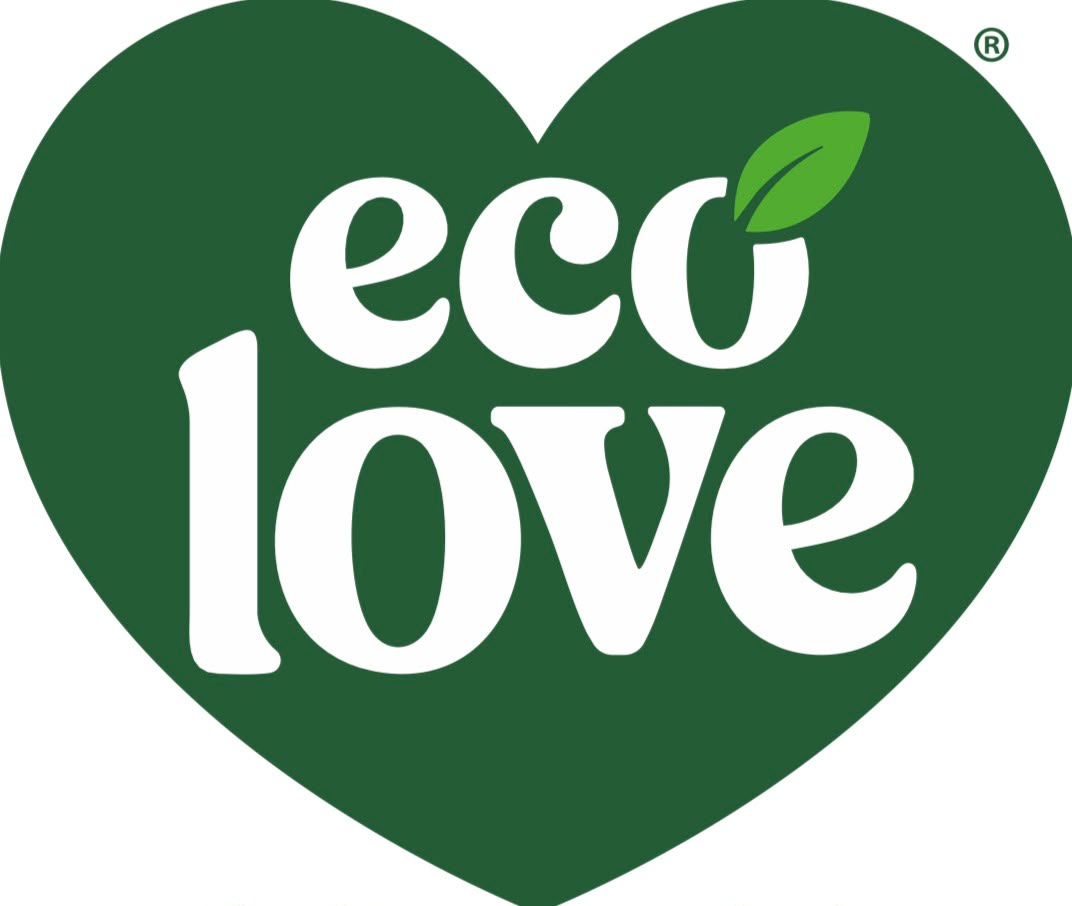
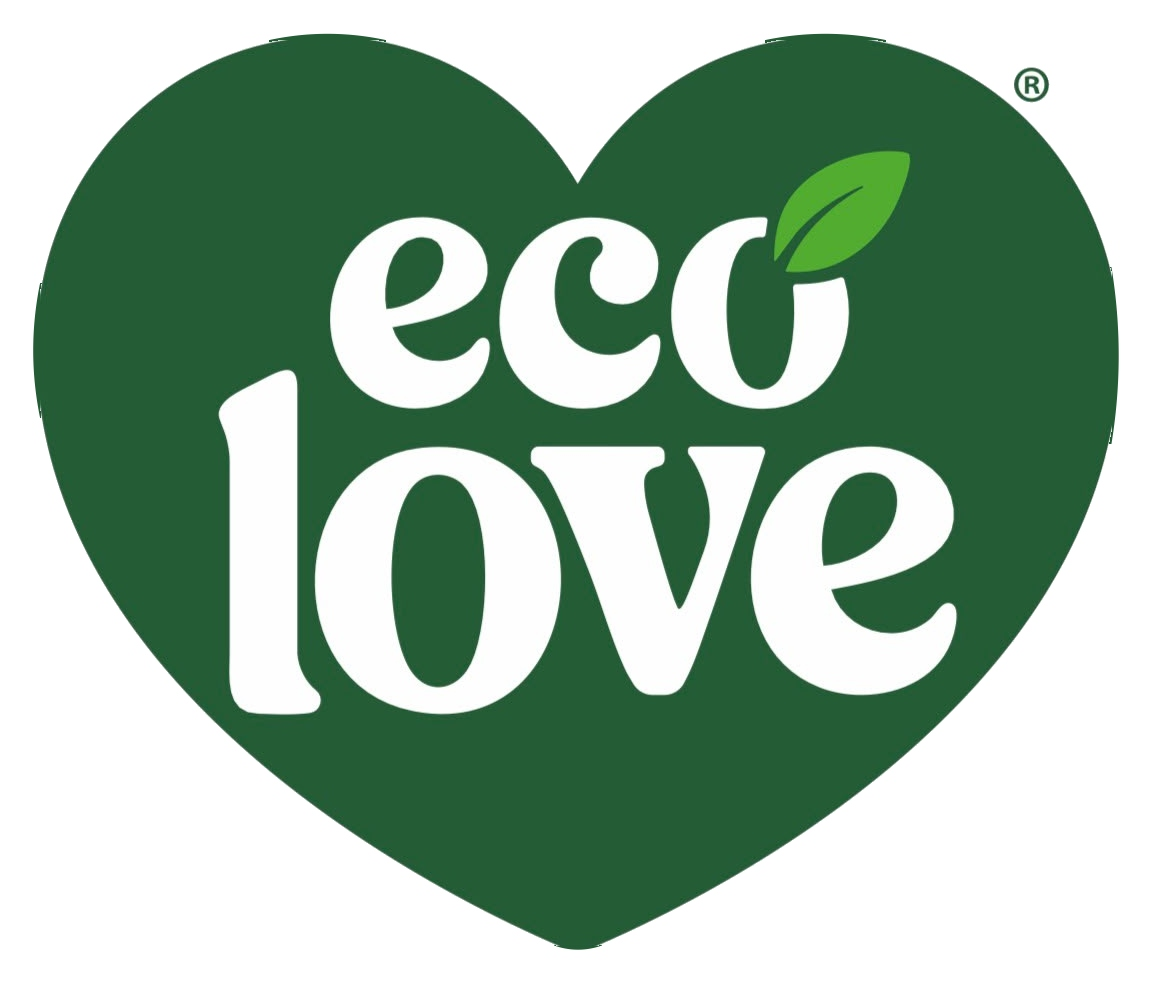
style(brands): update brand assets and UI layout
- Replace brand logos with updated versions
- Adjust scale and padding for brand cards in BrandSubpage and BrandsSection for improved consistency

diff --git a/src/components/BrandSubpage.tsx b/src/components/BrandSubpage.tsx
@@ -269,21 +269,21 @@ export const BrandSubpage: React.FC<BrandSubpageProps> = ({
         );
       case 'dhoy':
         return (
-          <div className="w-13 h-13 sm:w-16 sm:h-16 bg-white rounded-full flex items-center justify-center p-1.5 shadow-md shrink-0 overflow-hidden">
+          <div className="w-13 h-13 sm:w-16 sm:h-16 bg-white rounded-full flex items-center justify-center p-2 sm:p-2.5 shadow-md shrink-0 overflow-hidden">
             <img
               src={dhoyImg}
               alt="D'Hoy"
-              className="w-[88%] h-auto max-h-full object-contain"
+              className="w-[82%] sm:w-[84%] h-auto max-h-[82%] object-contain"
             />
           </div>
         );
       case 'ecolove':
         return (
-          <div className="w-13 h-13 sm:w-16 sm:h-16 bg-white rounded-full flex items-center justify-center p-1.5 shadow-md shrink-0 overflow-hidden">
+          <div className="w-13 h-13 sm:w-16 sm:h-16 bg-white rounded-full flex items-center justify-center p-2 sm:p-2.5 shadow-md shrink-0 overflow-hidden">
             <img
               src={ecoloveTransparentImg}
               alt="EcoLove"
-              className="w-[82%] h-auto max-h-full object-contain drop-shadow-xs"
+              className="w-[80%] sm:w-[82%] h-auto max-h-[80%] object-contain drop-shadow-xs"
             />
           </div>
         );

diff --git a/src/components/RecetasSubpage.tsx b/src/components/RecetasSubpage.tsx
@@ -38,11 +38,11 @@ export const RecetasSubpage: React.FC<RecetasSubpageProps> = ({
   }, [isDrawerOpen]);
 
   const renderEcoLoveLogo = () => (
-    <div className="w-13 h-13 sm:w-16 sm:h-16 bg-white rounded-full flex items-center justify-center p-1.5 shadow-md shrink-0 overflow-hidden">
+    <div className="w-13 h-13 sm:w-16 sm:h-16 bg-white rounded-full flex items-center justify-center p-2 sm:p-2.5 shadow-md shrink-0 overflow-hidden">
       <img
         src={ecoloveTransparentImg}
         alt="EcoLove"
-        className="w-[82%] h-auto max-h-full object-contain drop-shadow-xs"
+        className="w-[80%] sm:w-[82%] h-auto max-h-[80%] object-contain drop-shadow-xs"
       />
     </div>
   );

diff --git a/src/components/BrandsSection.tsx b/src/components/BrandsSection.tsx
@@ -41,8 +41,8 @@ const HOMEPAGE_BRANDS: BrandCardItem[] = [
     heroImage: dhoyImg,
     imageFit: 'contain',
     objectPosition: 'center center',
-    imageScale: 'scale-95 group-hover:scale-105',
-    boxPadding: 'p-4 sm:p-5',
+    imageScale: 'scale-90 group-hover:scale-95',
+    boxPadding: 'p-5 sm:p-6',
   },
   {
     id: 'ecolove',
@@ -51,8 +51,8 @@ const HOMEPAGE_BRANDS: BrandCardItem[] = [
     heroImage: ecoloveImg,
     imageFit: 'contain',
     objectPosition: 'center center',
-    imageScale: 'scale-100 group-hover:scale-108',
-    boxPadding: 'p-4 sm:p-5',
+    imageScale: 'scale-90 group-hover:scale-95',
+    boxPadding: 'p-5 sm:p-6',
   },
   {
     id: 'hortilisto',
